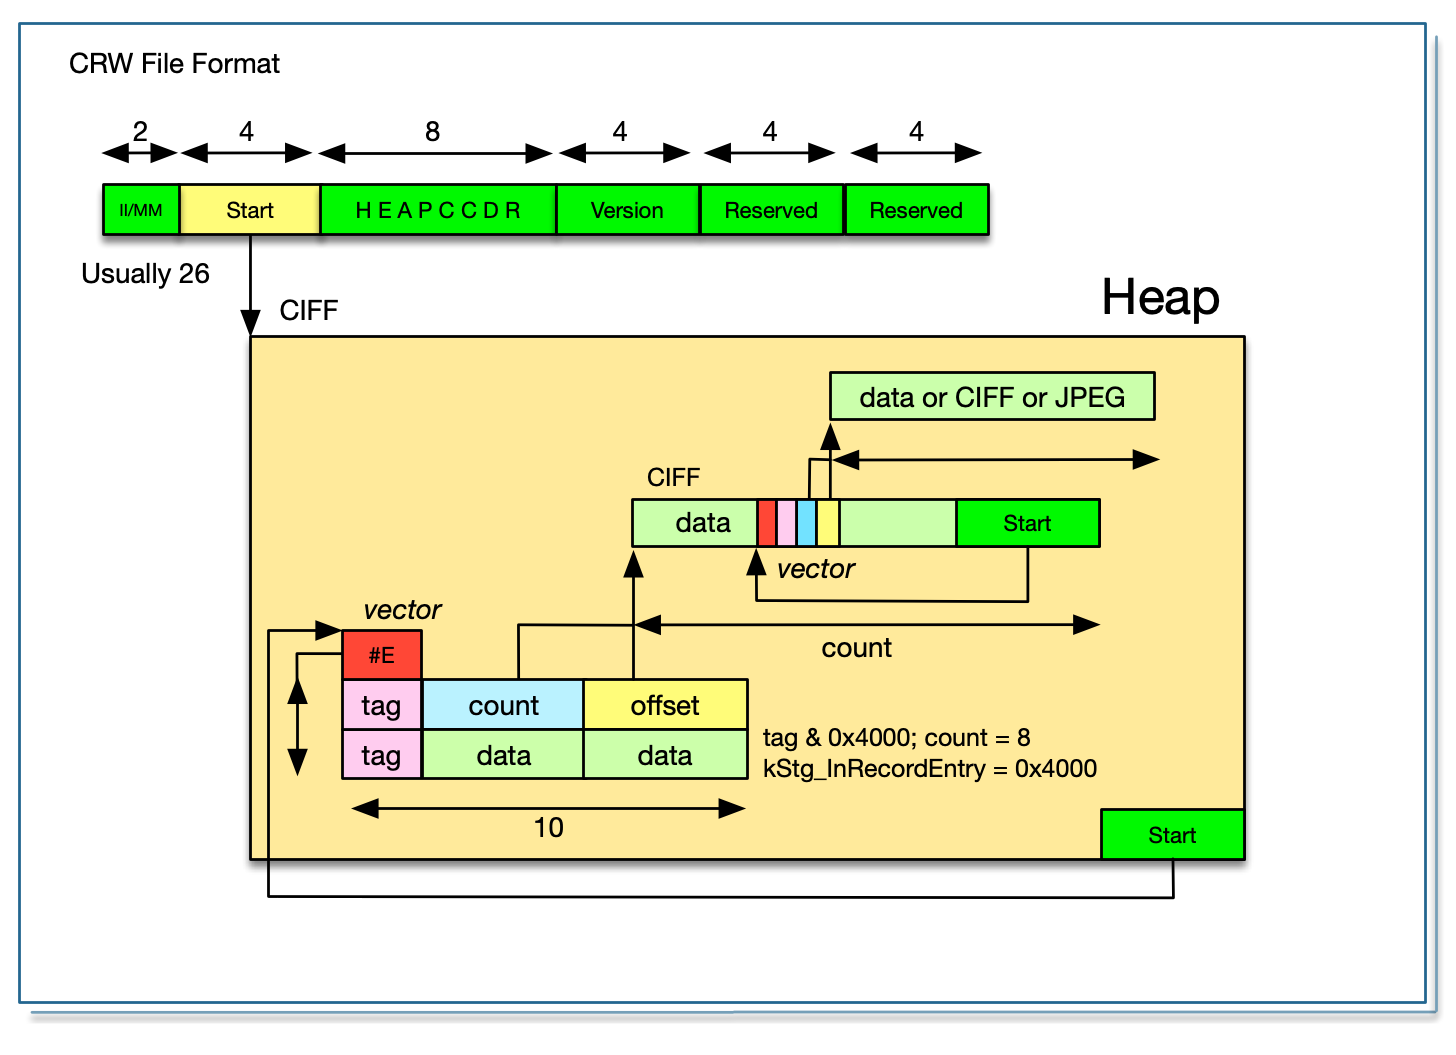
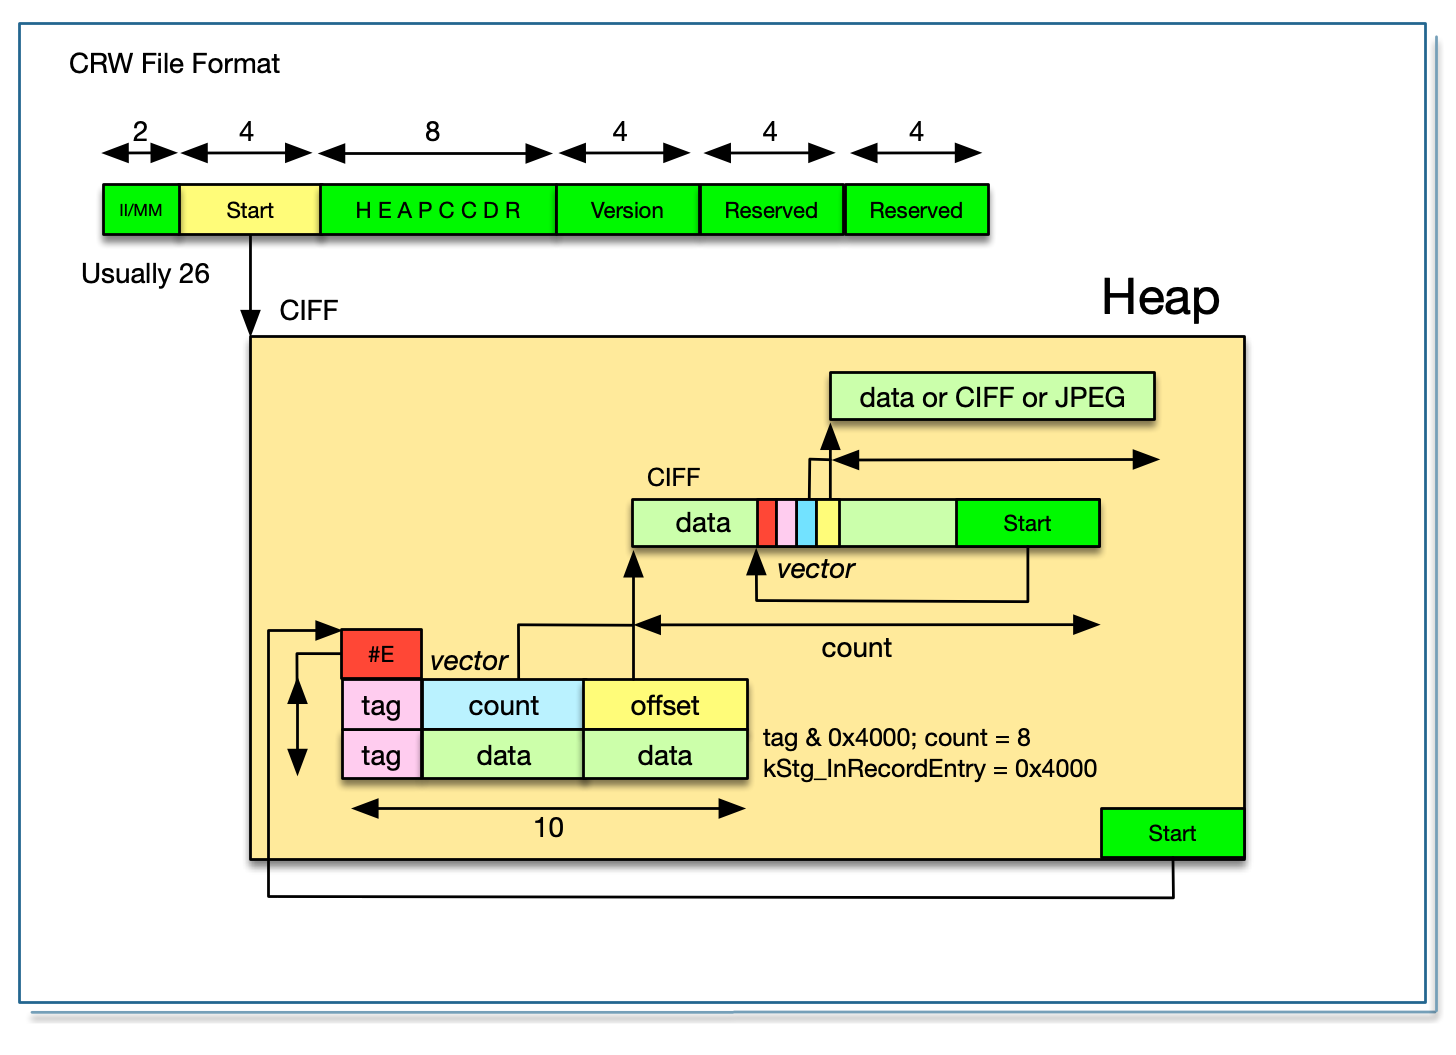
fixing graphics and typos

diff --git a/book/IMaEA.md b/book/IMaEA.md
@@ -81,7 +81,7 @@ I said "Oh, it can't be too difficult to do that!".  And here we are more than a
 
 The program samples/geotag.cpp is a command line utility to geotag photos and I frequently use this on my own photographs.  Today, I have a Samsung Galaxy Watch which uploads runs to Strava.  I download the GPX from Strava.  The date/time information in the JPG is the key to search for the position data.  The GPS tags are created and saved in the image.
 
-In 2008, I chose to implement this in python because I wanted to learn Python.  Having discovered exiv2 and the python wrapper pyexiv2, I set off with enthusiasm to build a cross-platform script to run on **Windows** _(XP, Visual Studio 2003)_, **Ubuntu Linux** _(Hardy Heron 2008.04 LTS)_ and **macOS** _(32 bit Tiger 10.4 on a big-endian PPC)_.  After I finished, I emailed Andreas.  He responded in less than an hour and invited me to join Team Exiv2.  Initialially, I provided support to build Exiv2 with Visual Studio.
+In 2008, I chose to implement this in python because I wanted to learn the language.  Having discovered exiv2 and the python wrapper pyexiv2, I set off with enthusiasm to build a cross-platform script to run on **Windows** _(XP, Visual Studio 2003)_, **Ubuntu Linux** _(Hardy Heron 2008.04 LTS)_ and **macOS** _(32 bit Tiger 10.4 on a big-endian PPC)_.  After I finished, I emailed Andreas.  He responded in less than an hour and invited me to join Team Exiv2.  Initialially, I provided support to build Exiv2 with Visual Studio.
 
 Incidentally, later in 2008, Dennis offered me a contract to port his company's Linux code to Visual Studio to be used on a Windows CE Embedded Controller.  1 million lines of C++ were ported from Linux in 6 weeks.  I worked with Dennis for 4 years on all manner of GPS related software development.
 
@@ -136,7 +136,7 @@ The toolset used in Software Engineering evolves with time.  C++ has been around
 
 The most common issue raised on GitHub concerns lens recognition.  For v0.26, I added the _**Configuration File**_ feature to enable users to modify lens recognition on their computer.  While this is helpful, many users would like Exiv2 to deal with this perfectly, both now and in the future.
 
-I intend to make a proposal at LGM in Rennes in May 2021 concerning this matter. Both exiv2 and ExifTool can extract metadata from an image into a .EXV file. I will propose to implement a program to read the .exv and return the Lens. That program will have an embedded programming language with the rules to identify the lens. The scripts will be ascii files which can be updated. It will be called M2Lscript (MetaData to Lens Script), pronounced _**"MillsScript"**_. The M2Lscript interpreter will be available as a command-line program, a perl module (for ExifTool), a C++ library (for linking into exiv2) and perhaps a python module.
+I intend to make a proposal at LGM in Rennes in May 2021 concerning this matter. Both exiv2 and ExifTool can extract metadata from an image into a .EXV file. I will propose to implement a program to read the .EXV and return the Lens. That program will have an embedded programming language with the rules to identify the lens. The scripts will be ascii files which can be updated. It will be called M2Lscript (MetaData to Lens Script), pronounced _**"MillsScript"**_. The M2Lscript interpreter will be available as a command-line program, a perl module (for ExifTool), a C++ library (for linking into exiv2) and perhaps a python module.
 
 In this way, new lens definitions can be written in M2Lscript without touching anything in Exiv2 or ExifTool.
 
@@ -2780,7 +2780,7 @@ The difficulties of maintaining an open-source project are well explained in thi
 
 <center><img src="open-source-today1.png" style="width:500;border:2px solid #23668F"/>
 <img src="open-source-today2.png" style="width:500;border:2px solid #23668F"/>
-<img src="open-source-today3.png" style="width:500;border:2px solid #23668F"/>
+<img src="open-source-today3.png" style="width:500;Why isborder:2px solid #23668F"/>
 </center>
 
 I will quote the following as it seems totally true.
@@ -3236,10 +3236,10 @@ There are serious limitations with PERT.  I only intend to investigate the use o
 | Trouble | Observation |
 |:--      |:--          |
 |  PERT assumes that you can itemise and quantify every task in the project. | If you are investigating something new, you can probably do neither of these things. |
-| Many projects cannot be quantified.  | Why isn't PERT used<br>1. In crime investigation.<br>2. In medical treatment.<3>3.  In investment management. |
-| You will do abortive work and encounter road blocks. | No Program Manager ever includes time for this.<br>Every innovative project has abortive work. |
+| Many projects cannot be quantified.  | Why isn't PERT used:<br>1. In crime investigation.<br>2. In medical treatment.<br>3.  In investment management. |
+| You will do abortive work and encounter road blocks. | Program Managers never plan time for this.<br>Every innovative project has abortive work. |
 | People are not interchangeable. | People leave, or are assigned to other projects.  New team members require time to come up to speed with the project. |
-| Some tasks have a gestation period | If you are having a baby, more woman won't reduce the 9 month wait.<br>Adding people is often counter-productive.  |
+| Some tasks have a gestation period | If you are having a baby, more women won't reduce the 9 month wait.<br>Adding people is often counter-productive.  |
 | Management, and other project stakeholders, change goals and objectives. | The circumstances surrounding the project can change and have major implications for the project. |
 
 Because of the recursive nature of projects, there are serious limitations hiding inside these limitations.
@@ -3270,17 +3270,17 @@ To be written.
 <div id="13-20">
 ### 13.20 Tools
 
-Every year brings new/different tools.  For example: cmake, git, MarkDown, conan and C++11.  One of the remarkable properties of tools you have never used is that they are perfect and solve all known issues, _until you use them_,   Tools you have never used are bug free and perfect.  Or so I am told.
+Every year brings new/different tools.  For example: cmake, git, MarkDown, conan and C++11.  One of the remarkable properties of tools you have never used is that they are perfect and solve all known issues, _until you use them_.   Tools you have never used are bug free and perfect.  Or so I am told.
 
 I had an issue with the release bundles for Exiv2 v0.26.  My primary development platform is macOS.  Remarkably, the version of tar shipped by Apple puts hidden files in bundles to store file extended attributes.  I didn't know this until the bundles shipped and a bug report appeared.  You cannot see those files on macOS, because tar on macOS recreates the extended attributes.  However there were thousands of hidden files in the source bundle on Linux.  I recreated the bundles as Exiv2 v0.27a and shipped them.  There is an environment variable to suppress this.  I believe it is:  TAR\_WRITER\_OPTIONS=--no-mac-metadata.
 
 Case closed.  Except for very critical emails about changing bundles checksums.
 
-For v0.27 we adopted CMake to do the packaging.  Very nice.  Works well.  Guess what?  CMake produces .tar.gz files which have these hidden files.  Several people emailed to say "You wouldn't have this problem if you used CPack.".  100% wrong.  It is a known documented issue in CPack. So, the issue resurfaced because we used CPack.  Additionally, we had three release candidates for v0.27 which were published on 27 October, 15 November and 7 December 2018.  v0.27 shipped on 20 December and the bug report arrived on Christmas Day.
-2
+For v0.27 we adopted CMake to do the packaging.  Very nice.  Works well.  Guess what?  CMake produces .tar.gz files which have these hidden files.  Several people emailed to say "You wouldn't have this problem if you used CPack.".  100% wrong.  It is a known documented issue in CPack. So, the issue resurfaced because we used CPack.  Additionally, we had three release candidates for v0.27 which were published on 27 October, 15 November and 7 December 2018.  v0.27 shipped on 20 December and the bug report arrived on the day after Christmas Day.
+
 I rebuilt the bundles as Exiv2 v0.27.0a and shipped them on 2 January 2019.  I updated the build script to ensure that source bundles are created on Linux. 
 
-Please understand that I have nothing against using new tools.  However most of the hype surrounding new tools is nonesense.  This has been studied.  There are 5 stages in adopting new tools.
+Please understand that I have nothing against using new tools.  However most of the hype surrounding new tools is nonsense.  This has been studied.  There are 5 stages in adopting new tools.
 
 <center><img src="hype.jpg" width="500" style="border:2px solid #23668F;"/></center>
 
@@ -3312,15 +3312,15 @@ Without question, dealing with this has been very difficult.  Folks who have ado
 <div id="13-24">
 ### 13.24 Software Development
 
-As this is the first and last book I will ever write, I'd like to close the discussion of _**Project Management**_ with some thoughts and opinions about how software is developed.  Management have been searching for the silver bullet that will cause projects to be delivered on time, to budget, with great performance, few bugs and low cost maintenance.  This search has been proceeding for more than 50 years.  We've made some progress.  However system complexity out-strips our management and control tools.  The challenges are immense.
+As this is the first and last book I will ever write, I'd like to close the discussion of _**Project Management**_ with some thoughts and opinions about how software is developed.  Management have been searching for the silver bullet that will cause projects to deliver on time, to budget, with great performance, few bugs and low cost maintenance.  This search has been proceeding for more than 50 years.  We've made some progress.  However system complexity out-strips our management and control tools.  The challenges are immense.
 
-I've seen different approaches used.  In the IT world, people involved in systems development adopted the _**drawing office**_ model and adapted it.  In the drawing office, you have draftsmen working on drawing boards and engineers working at desks.  The engineers do the design and the draftsmen draw it.  This was method was modified and the systems analysts became the designers and the programmers created the code.  They work in a strict regime of SSADM - the Standard Structure Analysis and Design Methodology.  This is often called "The Waterfall Method".  It's horrible.  It's inflexible, slow and very expensive.  It's amazing that anything can be delivered that way.
+I've seen different approaches used.  In the IT world, people involved in system development adopted and modified the _**drawing office**_ model.  In the drawing office, you have draftsmen working on drawing boards and engineers working at desks.  The engineers do the design and the draftsmen draw it.  The systems analyst was the designer and the programmers created the code.  They work in a strict regime of SSADM - the Standard Structure Analysis and Design Methodology.  This is often called "The Waterfall Method".  It's horrible.  It's inflexible, slow and very expensive.  It's amazing that anything can be delivered this way.
 
-When I worked at West Anchors, the analysts had promoted all the programmers to programmer/analyst.  So the programmer had to do the programming and the work of the analyst.  This enabled the analyst to concentrate on office politics.  The QE team at West Anchors didn't test anything.  They approved the test plans written by the programmer/analyst and they inspected the test logs required to prove that the programmer/analyst had done all the work. The parrot phrase of everybody who wasn't a programmer/analyst was "I'm not technical" which meant "I'm not going to help you, so don't ask.  And, by the way, I am superior to you and you will do exactly what I tell you to do.".
+When I worked at West Anchors, the analysts promoted all the programmers to programmer/analyst.  So the programmer had to do the programming and the work of the analyst.  This enabled the analyst to concentrate on office politics.  The QE team at West Anchors didn't test anything.  They approved the test plans written by the programmer/analyst and they inspected the test logs required to prove that the programmer/analyst had done all the work. The parrot phrase of everybody who wasn't a programmer/analyst was "I'm not technical" which meant "I'm not going to help you, so don't ask.  And, by the way, I am superior to you and you will do exactly what I tell you to do.".
 
-Before I retired, the circus started to adopt Scrum.  Loads of meetings.  The project is divided into two-week _**sprints**_.  There were two days of _**review**_ meetings at the end of every sprint.  Two days of _**planning**_ meetings at the start of every sprint.  Daily _**stand-up**_ meetings which were usually about 1 hour.  And I'm sure I've forgotten other pointless meetings.  Sometimes people say they are _**agile**_.  I haven't figured out what that is.  I think it's some kind of "Let's not bother looking ahead.  It'll be great if or when it's delivered.".  And of course, all software development engineers _**(except me)**_ are geniuses who never create bugs, never document and never help co-workers.  Their code is perfect - or so they tell me.
+Before I retired, the circus started adopting Scrum.  Loads of meetings.  The project is divided into two-week _**sprints**_.  There were two days of _**review**_ meetings at the end of every sprint.  Two days of _**planning**_ meetings at the start of every sprint.  Daily _**stand-up**_ meetings which were usually about 1 hour.  And I'm sure I've forgotten other pointless meetings.  Sometimes people say they are _**agile**_.  I haven't figured out what that is.  I think it's some kind of "Let's not bother looking ahead.  It'll be great if or when it's delivered.".  And of course, all software development engineers _**(except me)**_ are geniuses who create perfect code and therefore no reason to document or help lesser co-workers.
 
-In the last 10 years we have seen AI move out of the lab and into our homes, cars and phones.  Probably 50% of code development time is spent on test related activity.  Perhaps in the future, the AI will undertake some of that work.  Remember it works 7x24, never takes a vacation and works very quickly.  I have high hopes that AI can be used to automate testing in future.
+In the last 10 years we have seen AI move out of the lab and into our homes, cars and phones.  Probably 50% of code development time is spent on test related activity.  Perhaps in future, AI will undertake more of that work.  Remember it works 7x24, never takes a vacation and works very quickly.  I have high hopes that AI can be used to automate testing in future.
 
 There is a method of developing code that works for me and that's to do everything myself.   This model doesn't scale.  However it is effective.  Do I create bugs?  Of course, I do.  However I find and fix them.  Many of the best people with whom I worked in Silicon Valley use this approach.  And when I think about it, that's exactly how Andreas created Exiv2.
 
